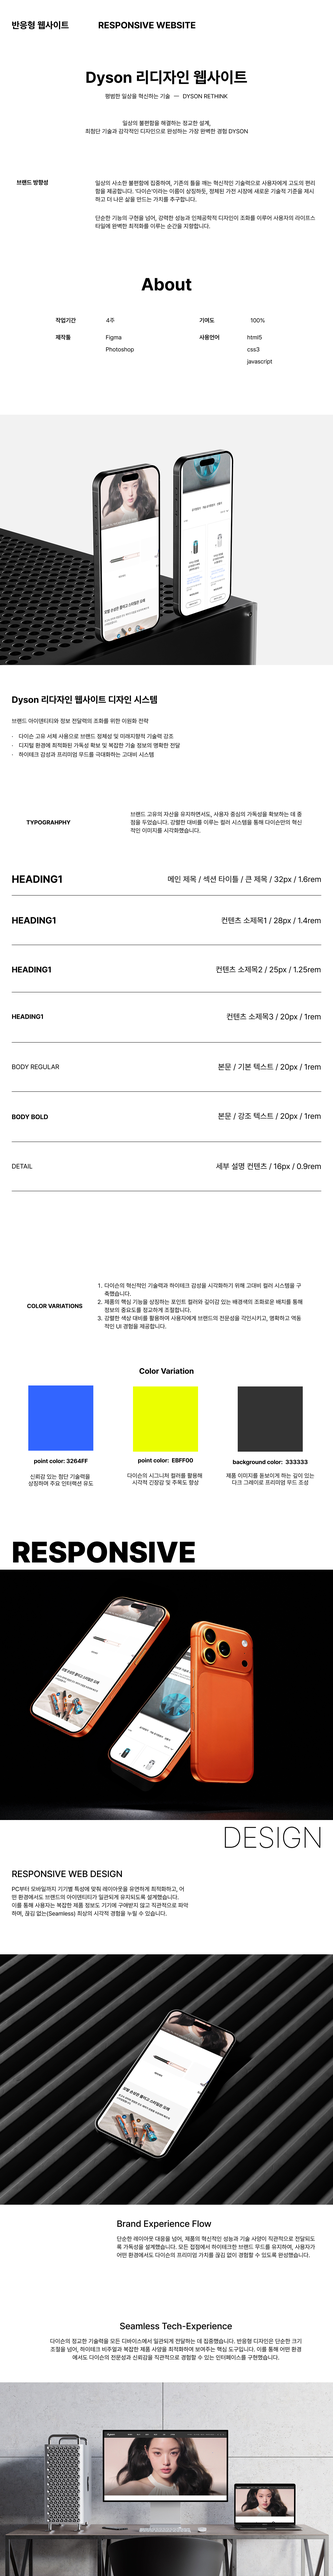
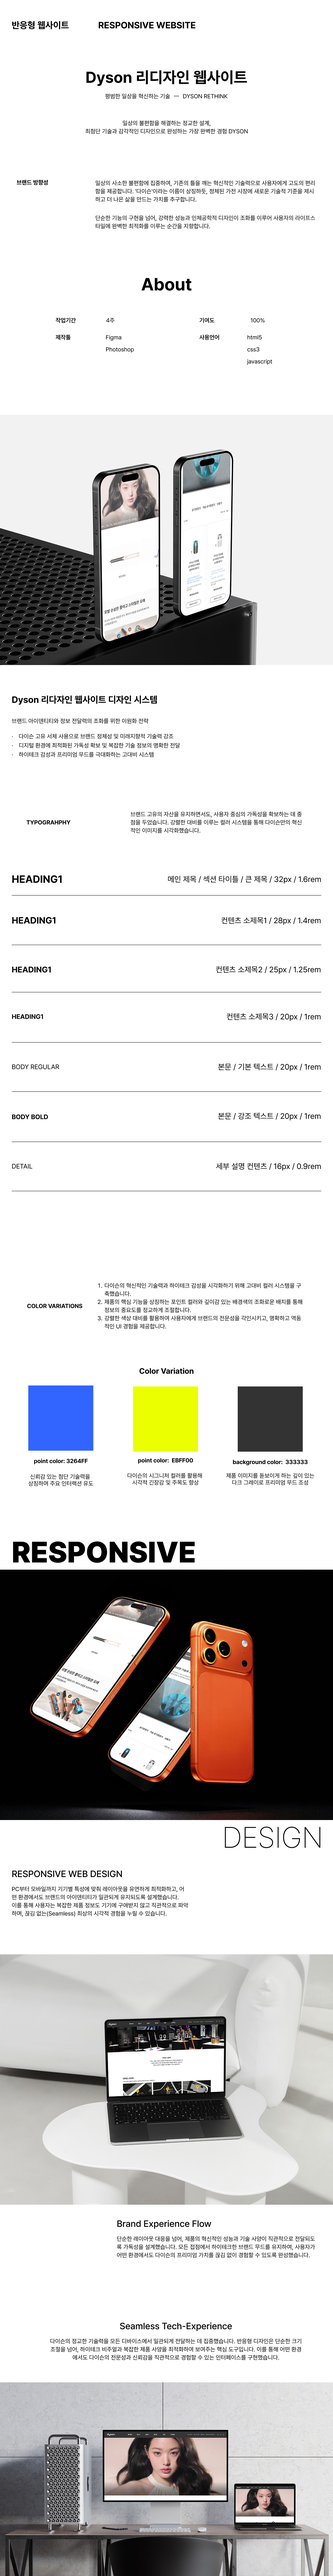
260415

Changed region(s): [[0.0, 0.7472, 1.0, 0.8717]]

diff --git a/index.html b/index.html
@@ -620,8 +620,8 @@
                 <p>화려한 장식보다는 여백의 미와 절제된 타이포그래피를 활용하여, 브랜드가 지향하는 '도심 속 정적'과 '심리적 균형'을 웹 환경에서 직관적으로 느낄 수 있도록 디자인했습니다.</p>
             </div>
             <ul class="project-sticky">
-                <li><a href="#">Original</a></li>
-                <li><a href="#">Renewal</a></li>                     
+                <li><a href="https://www.dyson.co.kr/">Original</a></li>
+                <li><a href="https://kwono8693-code.github.io/web-dyson/">Renewal</a></li>
             </ul>
             <figure class="project-detail">
                 <img src="./img/dyson_detail_pc.jpg" alt="다이슨 리디자인 프로젝트 디테일샷 pc" class="pc">
@@ -636,8 +636,8 @@
                     <p>화려한 장식보다는 여백의 미와 절제된 타이포그래피를 활용하여,,<br> 브랜드가 지향하는 '도심 속 정적'과 '심리적 균형'을 웹 환경에서 직관적으로 느낄 수 있도록 디자인했습니다.</p>
                 </div>
                 <ul class="project-sticky">
-                    <li><a href="#">Original</a></li>
-                    <li><a href="#">Renewal</a></li>
+                    <li><a href="https://baeminjee.github.io/web/">Original</a></li>
+                    <li><a href="https://baeminjee.github.io/web/">Renewal</a></li>
                 </ul>
                 <figure class="project-detail">
                     <img src="./img/offset_detail_pc.jpg" alt="오프셋 커피 브랜드 디테일샷 pc" class="pc">
